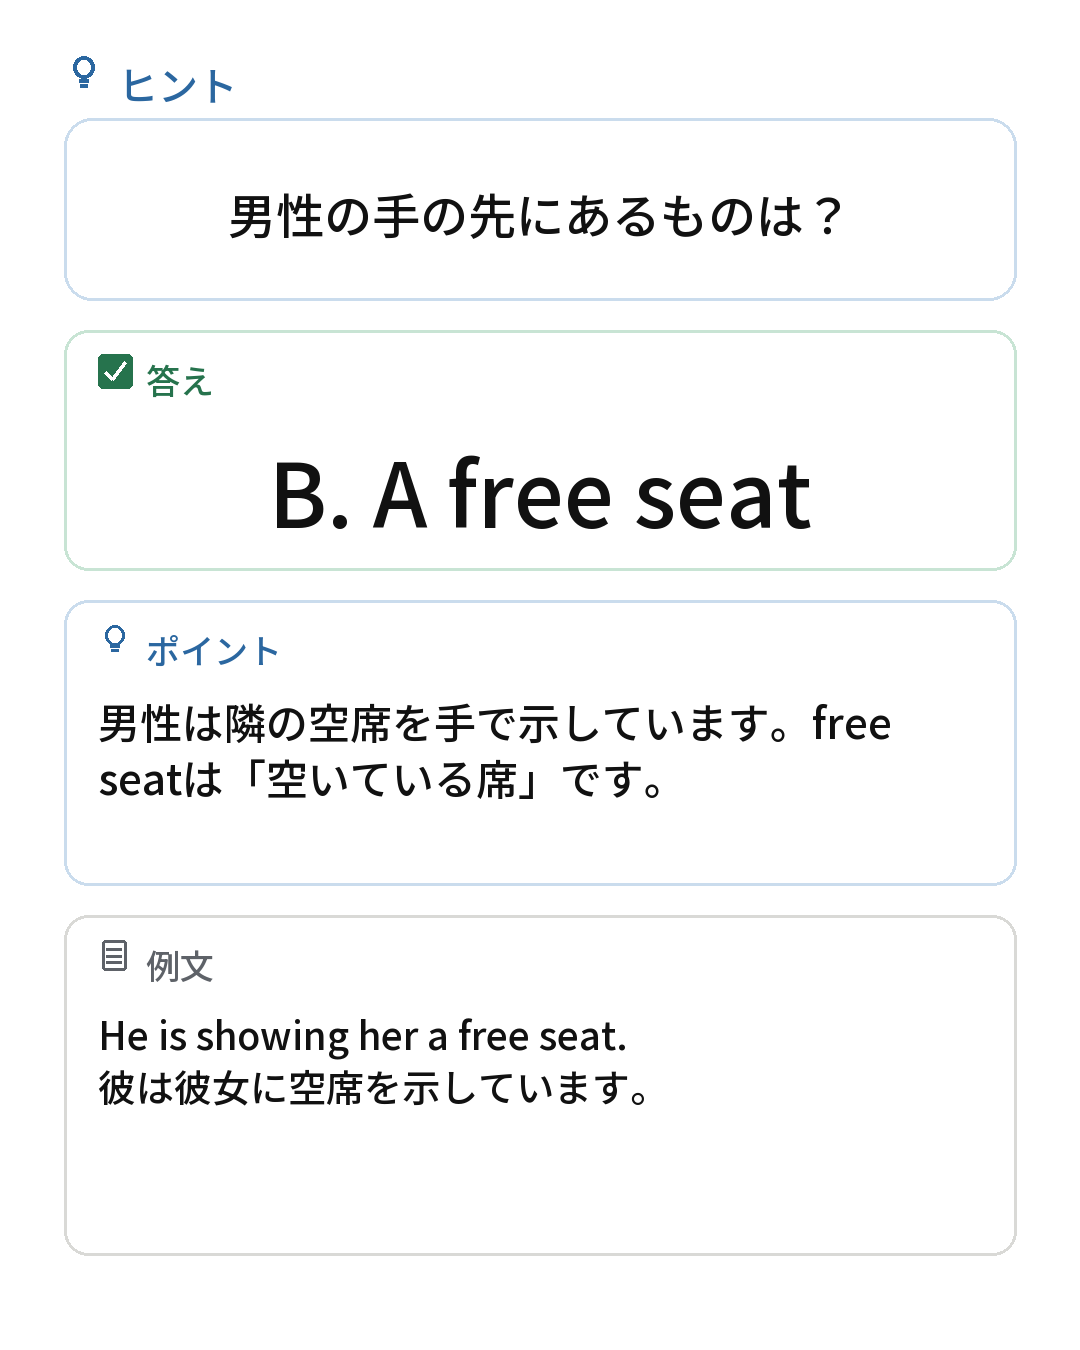
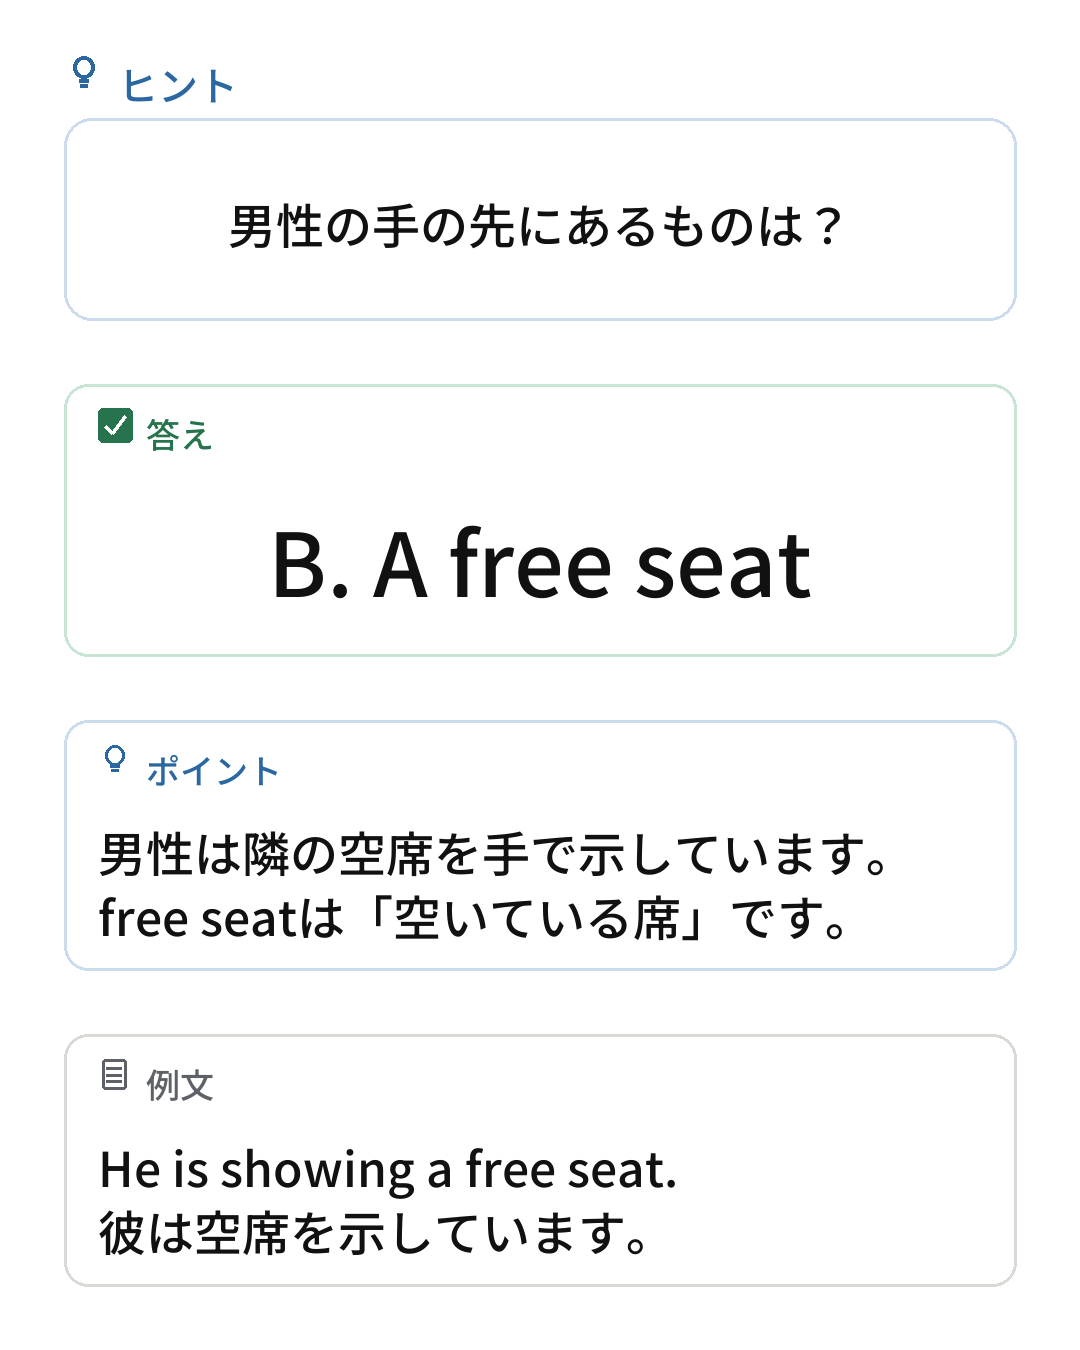
Adopt pragmatic visual quality gate

diff --git a/tests/test_visual_pragmatic_quality.py b/tests/test_visual_pragmatic_quality.py
@@ -1,0 +1,58 @@
+import unittest
+import json
+from pathlib import Path
+
+from instagram_automation.visual_quality import VisualQualityError, validate_visual_quality_gate
+
+
+def valid_visual():
+    return {
+        "format": "visual", "visual_required": True,
+        "visual_quality_gate": {
+            "object_consistency": True, "action_consistency": True,
+            "state_consistency": True, "pragmatic_consistency": True,
+            "answer_uniqueness": True, "english_knowledge_required": True,
+            "scene": {"subject": "a man", "addressee": "none",
+                      "action": "points to an empty seat", "state": "the adjacent seat is empty",
+                      "utterance_reason": "the question asks what he indicates",
+                      "contradiction_check": "no referenced person or state contradicts the answer"},
+        },
+    }
+
+
+class VisualPragmaticQualityTests(unittest.TestCase):
+    def test_valid_scene_passes(self):
+        validate_visual_quality_gate(valid_visual())
+
+    def test_each_quality_dimension_fails_closed(self):
+        for field in ("object_consistency", "action_consistency", "state_consistency",
+                      "pragmatic_consistency", "answer_uniqueness", "english_knowledge_required"):
+            record = valid_visual(); record["visual_quality_gate"][field] = False
+            with self.assertRaises(VisualQualityError, msg=field):
+                validate_visual_quality_gate(record)
+
+    def test_you_can_sit_here_scene_is_negative_regression(self):
+        record = valid_visual()
+        record["content_id"] = "ENG-000034"
+        record["visual_quality_gate"]["scene"] = {
+            "subject": "a standing woman", "addressee": "a seated man",
+            "action": "the woman gestures toward the man and chair",
+            "state": "the man is already seated",
+            "utterance_reason": "the metadata claims she is inviting him to sit",
+            "contradiction_check": "You can sit here conflicts with the addressee already sitting",
+        }
+        record["visual_quality_gate"]["pragmatic_consistency"] = False
+        with self.assertRaisesRegex(VisualQualityError, "pragmatic_consistency"):
+            validate_visual_quality_gate(record)
+
+    def test_eng_000046_approved_revision_passes(self):
+        master = json.loads((Path(__file__).parents[1] / "data/master/ENG-000046.json").read_text())
+        validate_visual_quality_gate(master)
+
+    def test_scene_evidence_is_required(self):
+        record = valid_visual(); record["visual_quality_gate"]["scene"]["state"] = ""
+        with self.assertRaisesRegex(VisualQualityError, "scene evidence"):
+            validate_visual_quality_gate(record)
+
+
+if __name__ == "__main__": unittest.main()

diff --git a/src/instagram_automation/visual_quality.py b/src/instagram_automation/visual_quality.py
@@ -1,0 +1,41 @@
+from __future__ import annotations
+
+
+QUALITY_FIELDS = (
+    "object_consistency",
+    "action_consistency",
+    "state_consistency",
+    "pragmatic_consistency",
+    "answer_uniqueness",
+    "english_knowledge_required",
+)
+SCENE_FIELDS = ("subject", "addressee", "action", "state", "utterance_reason", "contradiction_check")
+
+
+class VisualQualityError(ValueError):
+    pass
+
+
+def validate_visual_quality_gate(record: dict) -> None:
+    """Validate the human-reviewed scene contract for a Visual candidate.
+
+    This gate is used before production promotion. It deliberately requires review
+    evidence because object presence alone cannot prove pragmatic naturalness.
+    """
+    if record.get("format") != "visual" or record.get("visual_required") is not True:
+        return
+    gate = record.get("visual_quality_gate")
+    if not isinstance(gate, dict):
+        raise VisualQualityError("visual_quality_gate is required for Visual production candidates")
+    missing = set(QUALITY_FIELDS) - set(gate)
+    if missing:
+        raise VisualQualityError(f"visual quality fields missing: {sorted(missing)}")
+    failed = [field for field in QUALITY_FIELDS if gate.get(field) is not True]
+    if failed:
+        raise VisualQualityError(f"visual quality gate failed: {failed}")
+    scene = gate.get("scene")
+    if not isinstance(scene, dict):
+        raise VisualQualityError("visual quality scene review is required")
+    empty = [field for field in SCENE_FIELDS if not isinstance(scene.get(field), str) or not scene[field].strip()]
+    if empty:
+        raise VisualQualityError(f"visual scene evidence missing: {empty}")

diff --git a/tests/test_visual_semantics.py b/tests/test_visual_semantics.py
@@ -48,8 +48,8 @@ class VisualSemanticTests(unittest.TestCase):
         for question, choices, answer, completed in (
             ("What is she offering to do?", ["open the door","carry the boxes"],
              "carry the boxes", "She is offering to carry the boxes."),
-            ("What is he showing her?", ["A ticket","A free seat"],
-             "A free seat", "He is showing her a free seat."),
+            ("What is he showing?", ["A ticket","A free seat"],
+             "A free seat", "He is showing a free seat."),
             ("She is walking ___ the stairs.", ["up","down"], "up",
              "She is walking up the stairs.")):
             validate_format_master(self._canonical_visual(question,choices,answer,completed))
